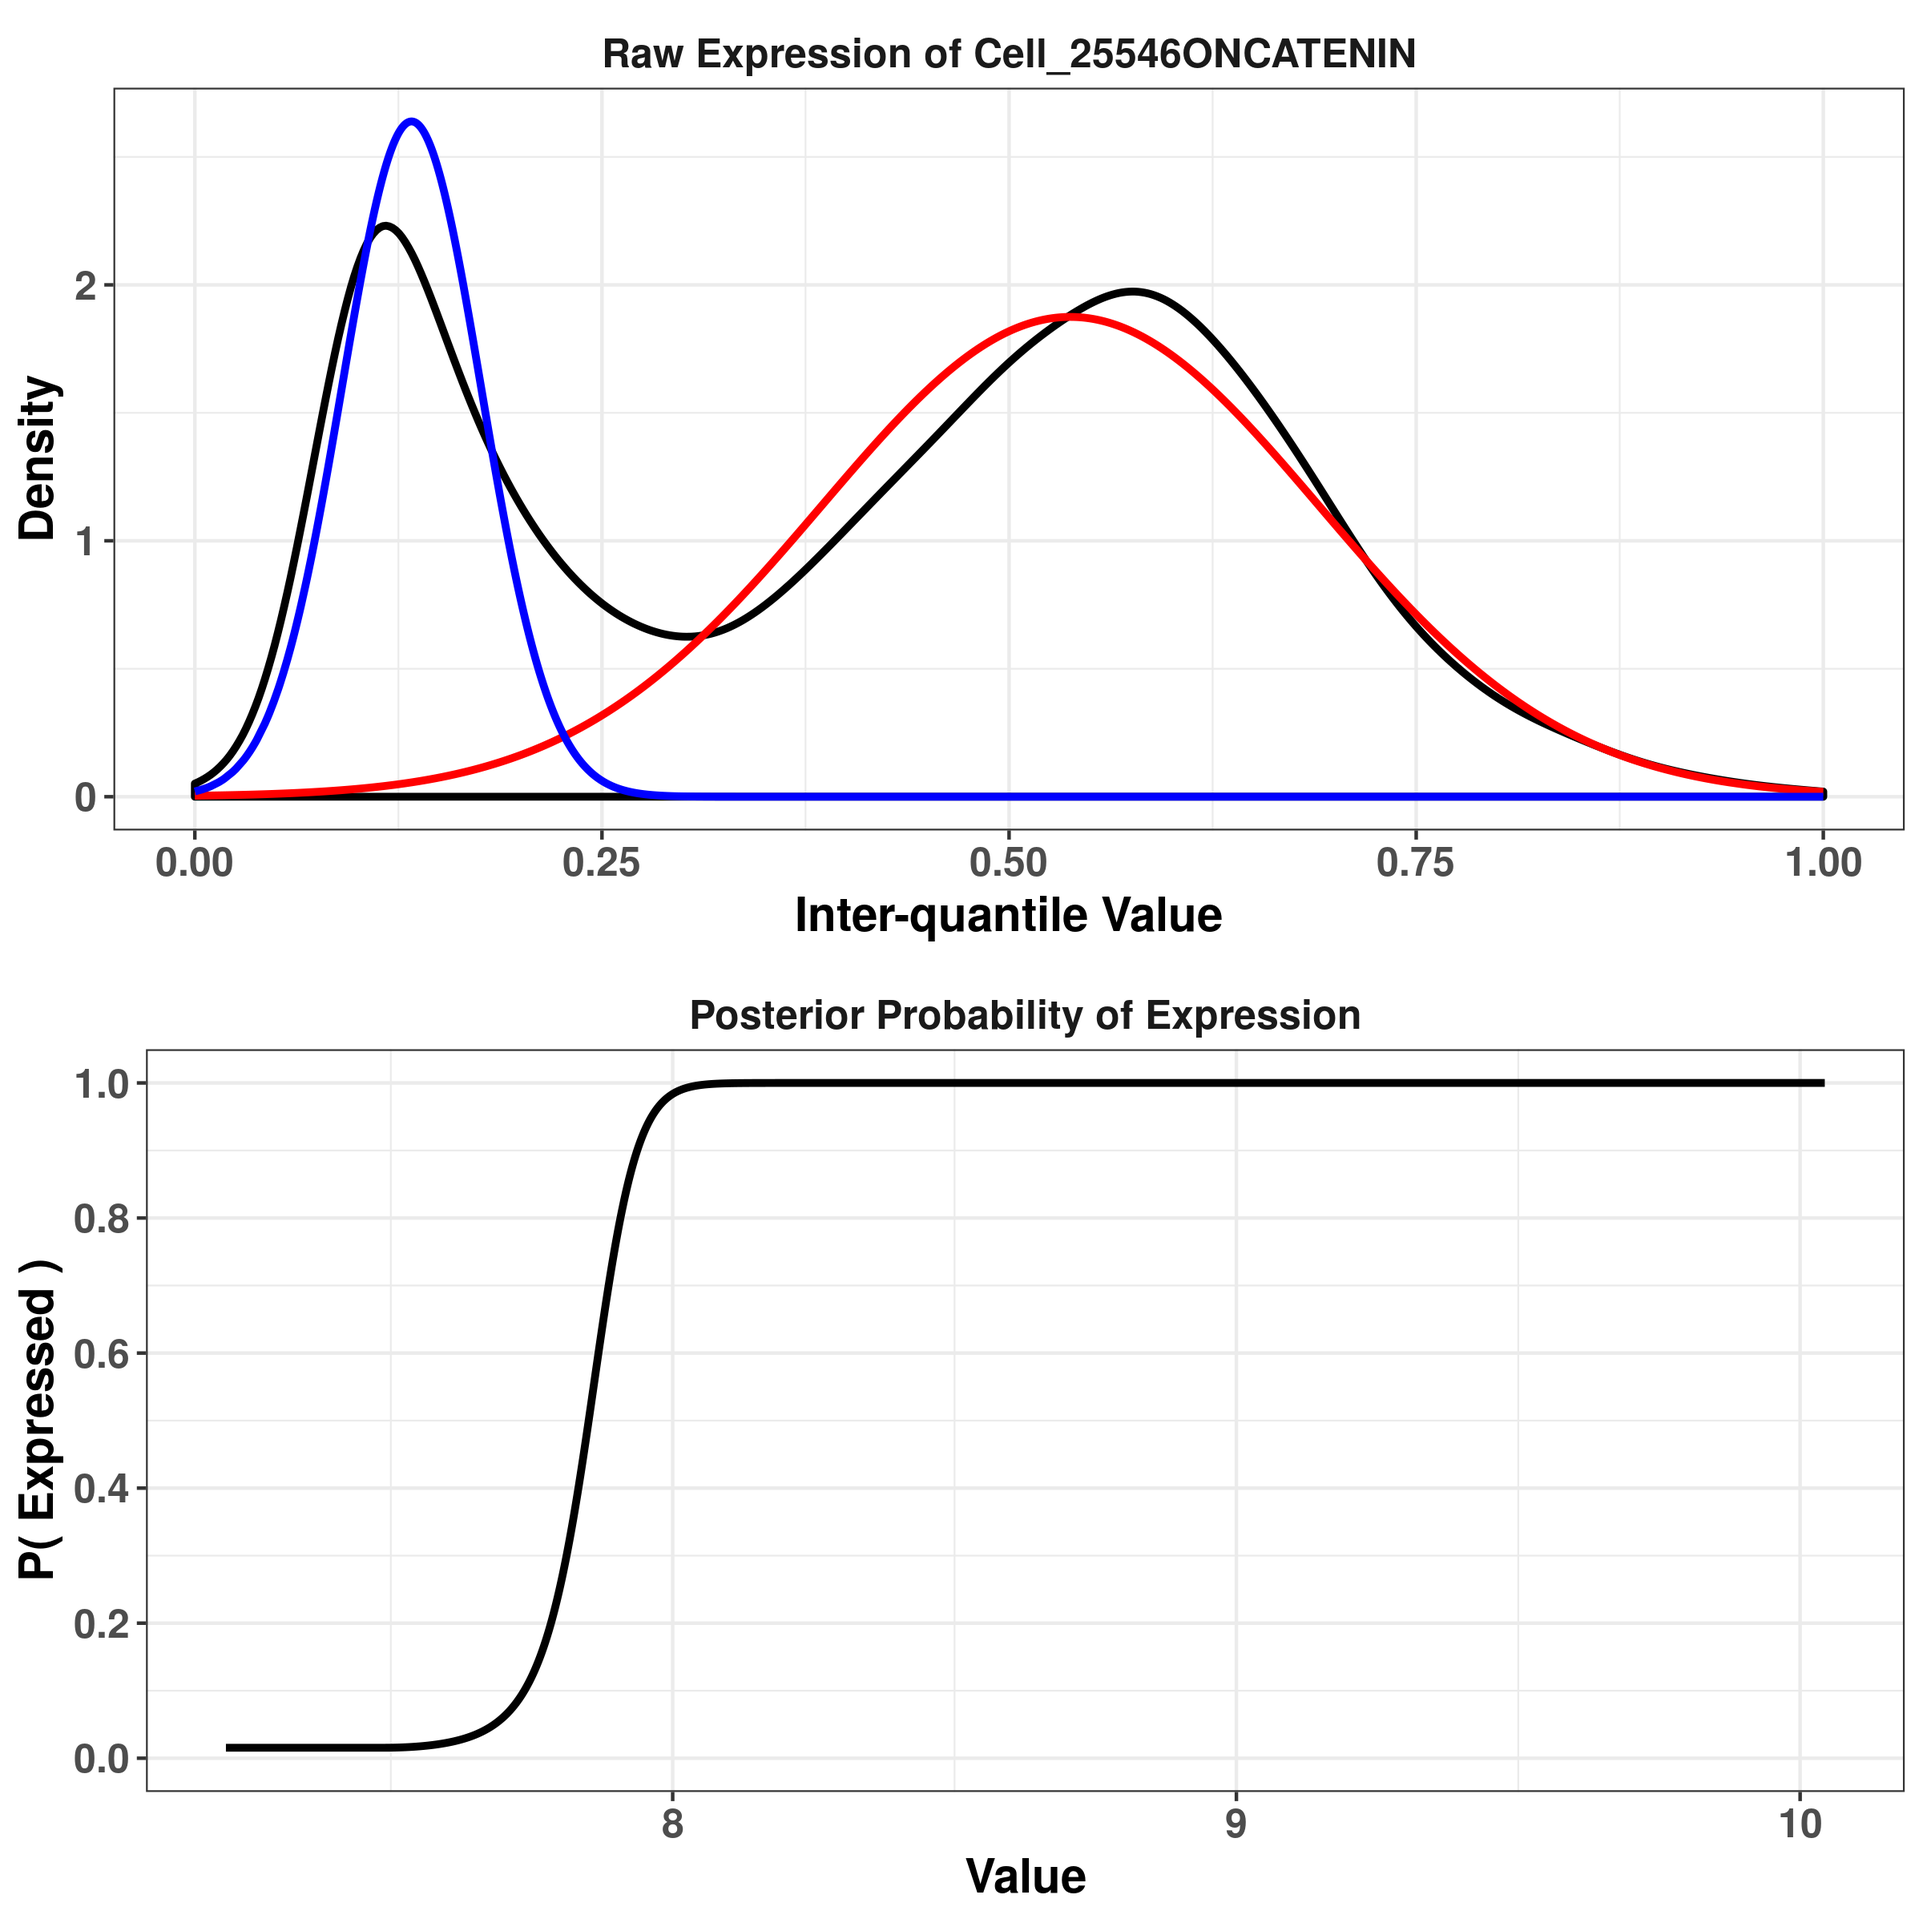
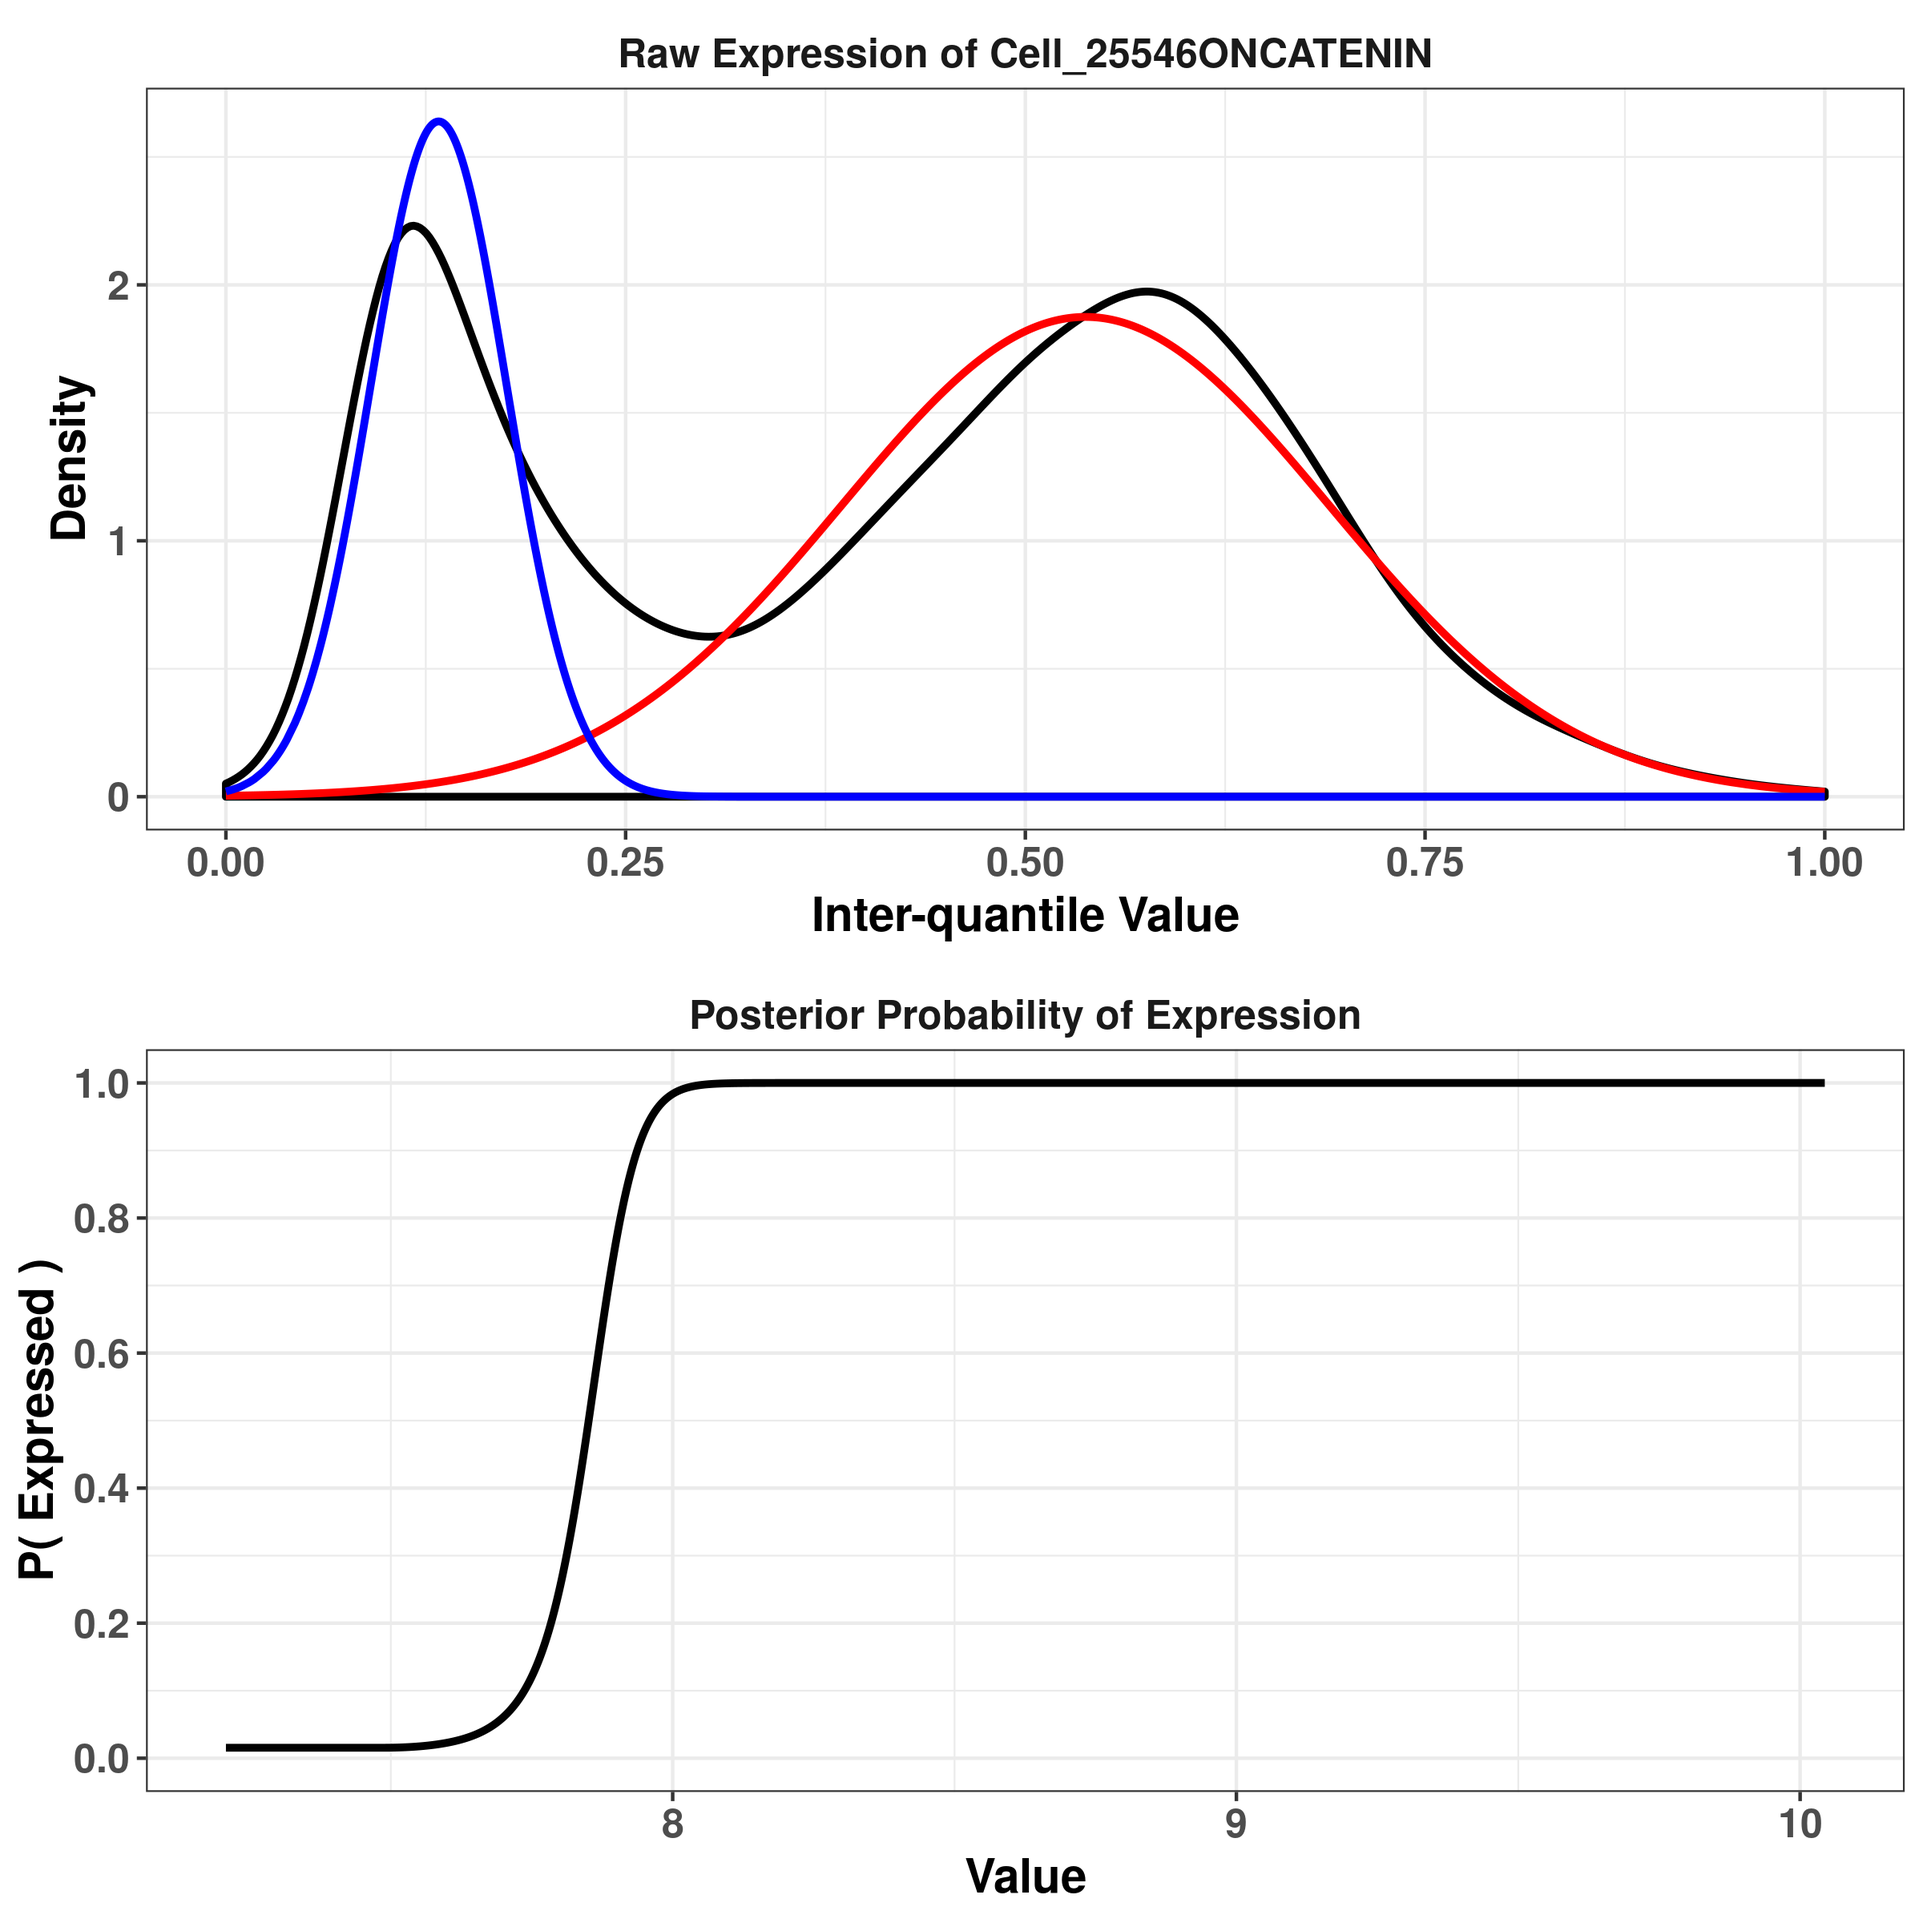
Better alignment of figure panels (#1)
* Better line up of figure panels

* Updated exemplar figure

* Update README.md

diff --git a/README.md b/README.md
@@ -41,7 +41,7 @@ After loading the .csv file, `X` now contains a cell-by-feature data frame consi
 
 The Naive Bayes framework requires predefined mapping of channels/markers to cell types/states. Currently, the framework assumes a binary association between the two (e.g., Immune cells express CD45, Stroma cells express SMA, etc.) As these relationships become more refined, future development will include support for probabilistic assignment of markers to cell types.
 
-The package includes an example mapping to along with the dataset above. As with the data itself, the mapping can be loaded into R or inspected directly by other tools and programming languages.
+The package includes an example mapping to go along with the dataset above. As with the data itself, the mapping can be loaded into R or inspected directly by other tools and programming languages.
 
 ``` r
 fnMap <- system.file( "examples/example1_chnlmap.csv", package="naivestates" )
@@ -82,7 +82,7 @@ The function also accepts three optional parameters:
 * `mu_init` - the initial placement of means for the Gaussian mixture, which can be used to guide the underlying EM algorithm. The values are specified relative to the inter-quantile range and default to 0.2 and 0.8.
 * `seed` - random seed that allows for full reproducibility of the output
 
-We can inspect the resulting models by hand. For example, here's the first model on the list, which is associated with beta-catenin:
+We can inspect the resulting models by hand. For example, here's the first model in the list, which is associated with beta-catenin:
 
 ``` r
 Fits$GMM[[1]]
@@ -106,13 +106,15 @@ Fits$GMM[[1]]
 
 The model consists on the mixture coefficients (lambda), mean placement inside the inter-quantile range (mu) and the associated standard deviations, and the inter-quantile range boundaries in the original expression space.
 
-We can also inspect the posterior probabilities (e.g., `Fits$Values[[1]]`) by hand, but it is usually better to plot the fit. The package provides a function that works directly with the data frame returned by `GMMfit()`. For example, let's examine the GMM fit for beta-catenin:
+We can also inspect the posterior probabilities (e.g., `Fits$Values[[1]]`) by hand, but it is usually better to plot the fit. The package provides a function that works directly with the data frame returned by `GMMfit()`. For example, let's examine the fit for beta-catenin:
 
 ``` r
 plotFit( Fits, "Cell_25546ONCATENIN" )
 ```
 
 ![](docs/Fig1.png)
+
+The top panel shows the distribution of raw expression values after they have been mapped to the inter-quantile range (black), the fit of the positive-expression Gaussian (red) and the matching fit of the negative-expression Gaussian (blue). The bottom panel is the matching posterior probability of the marker being expressed, given the original (unmapped) value.
 
 Lastly, it may be desirable to reshape the data frame to the original cell-by-marker format. This can be done by using `GMMreshape()`:
 
